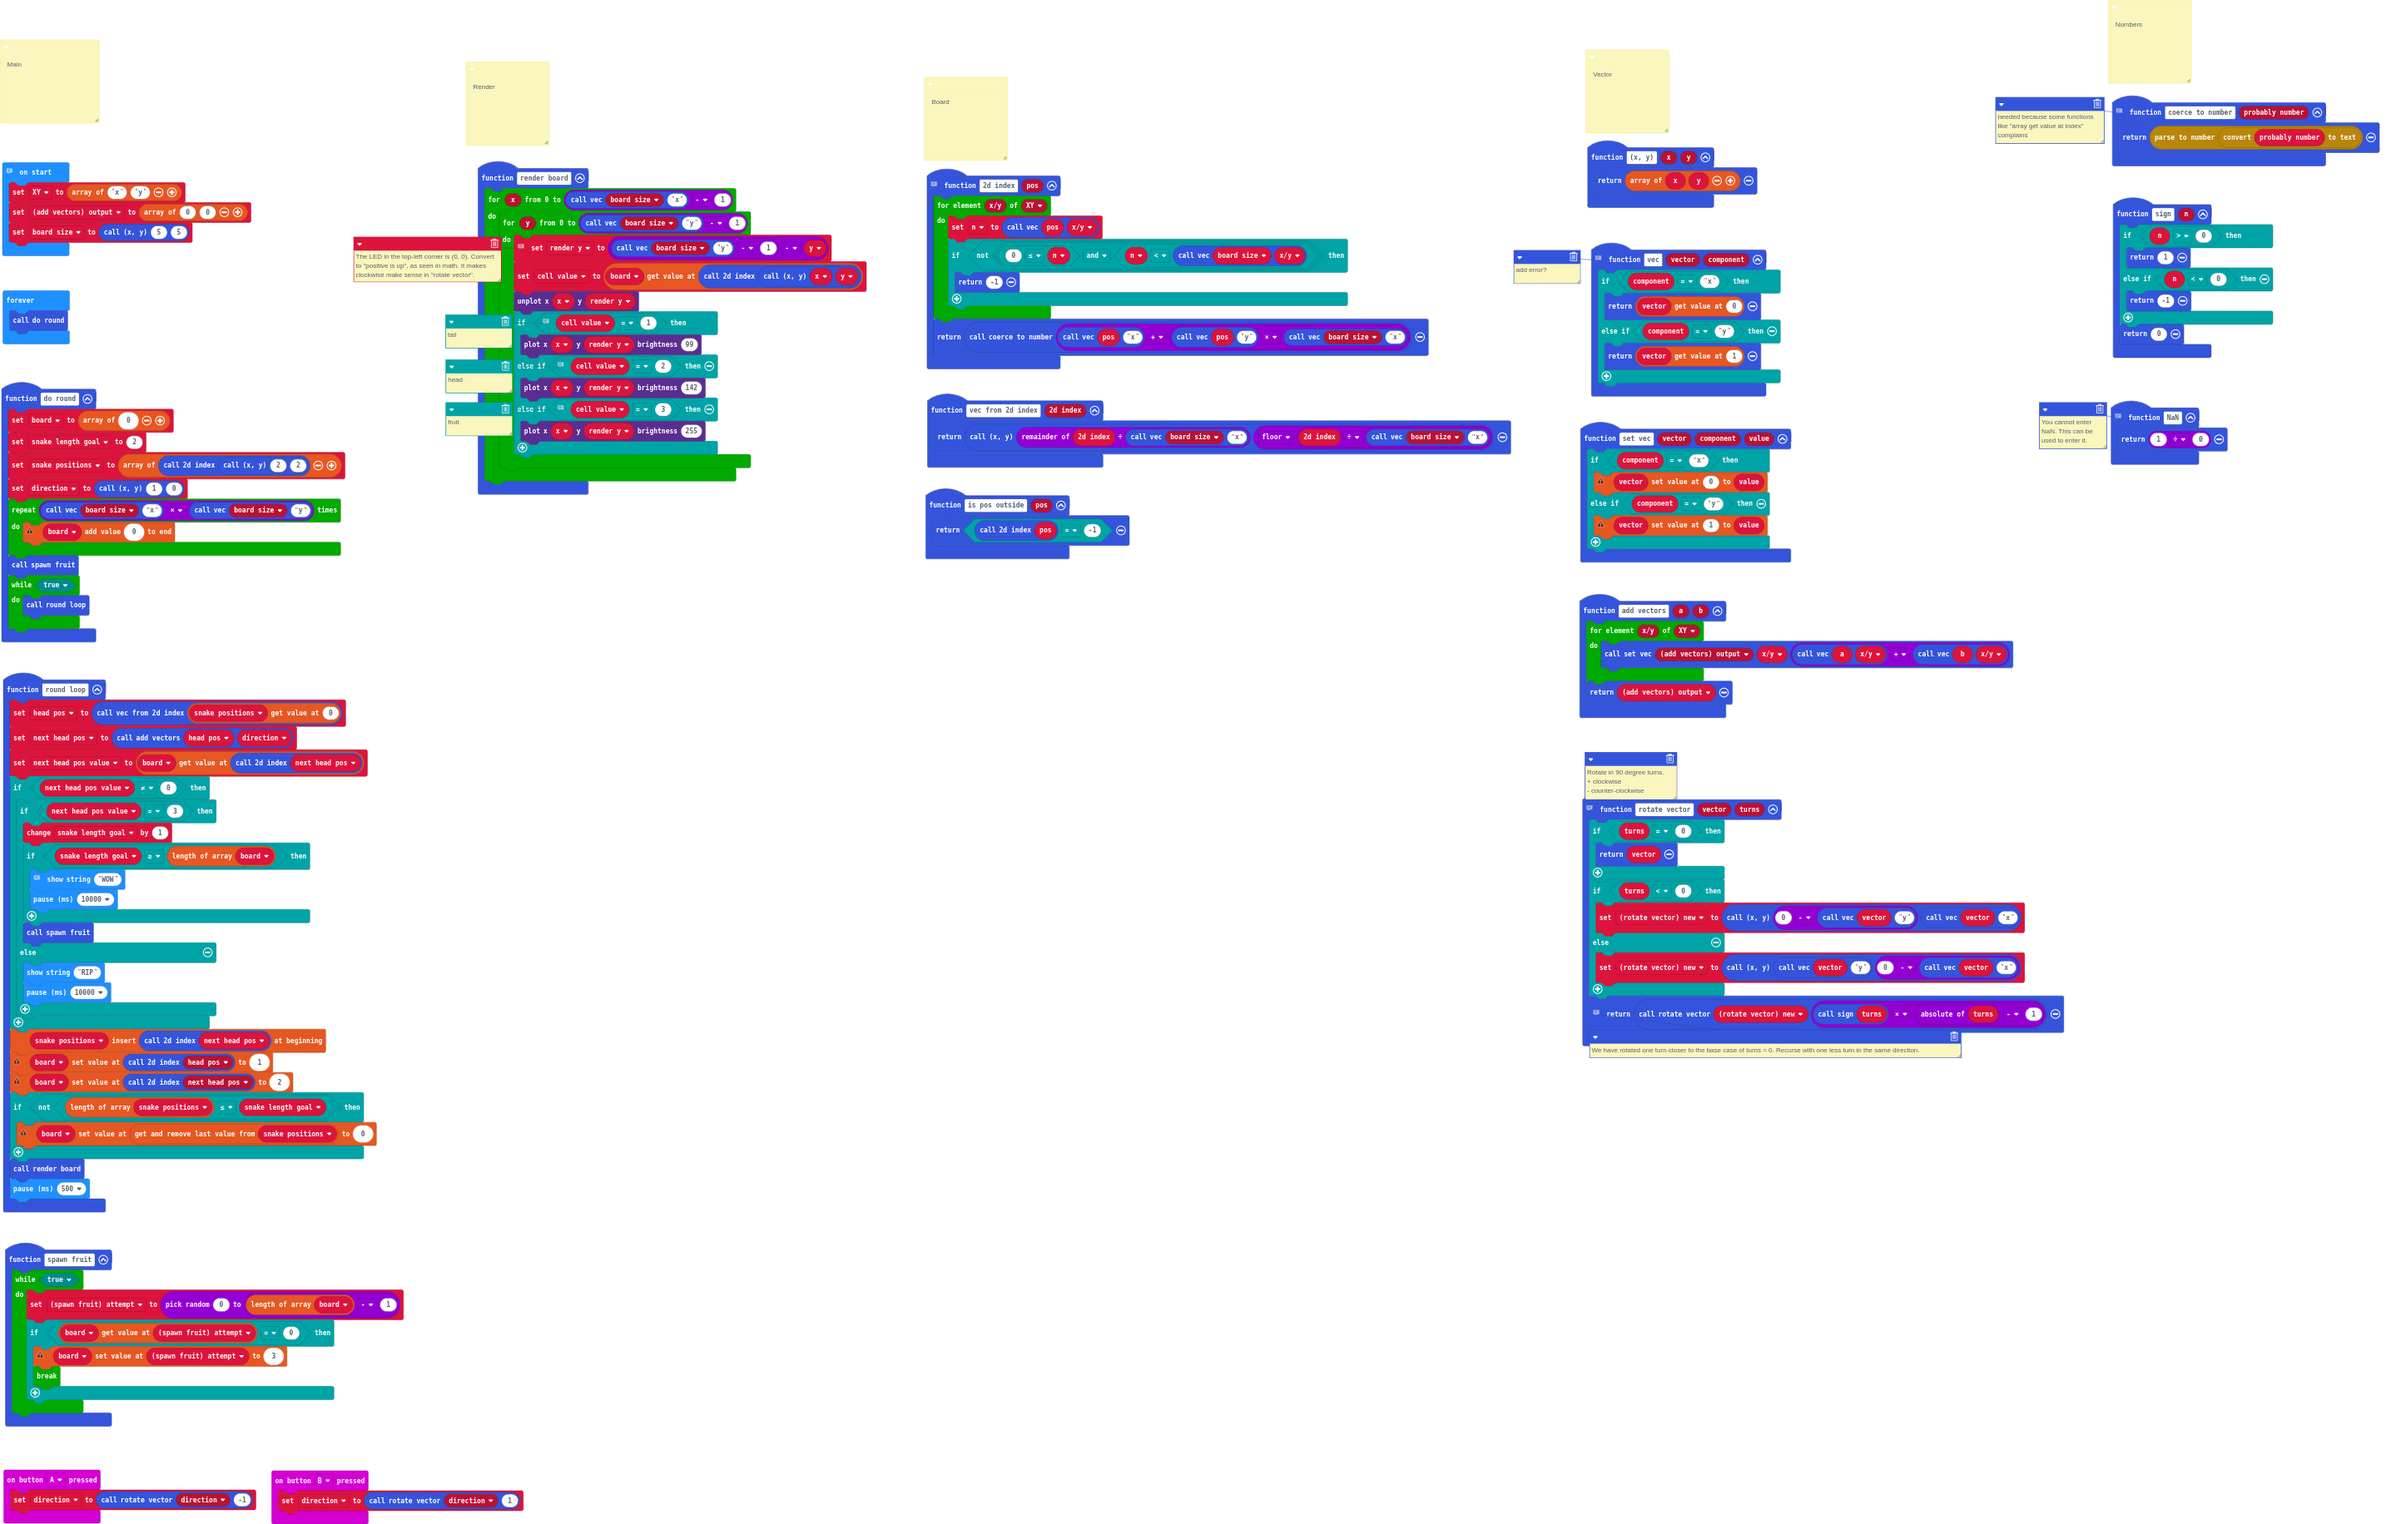
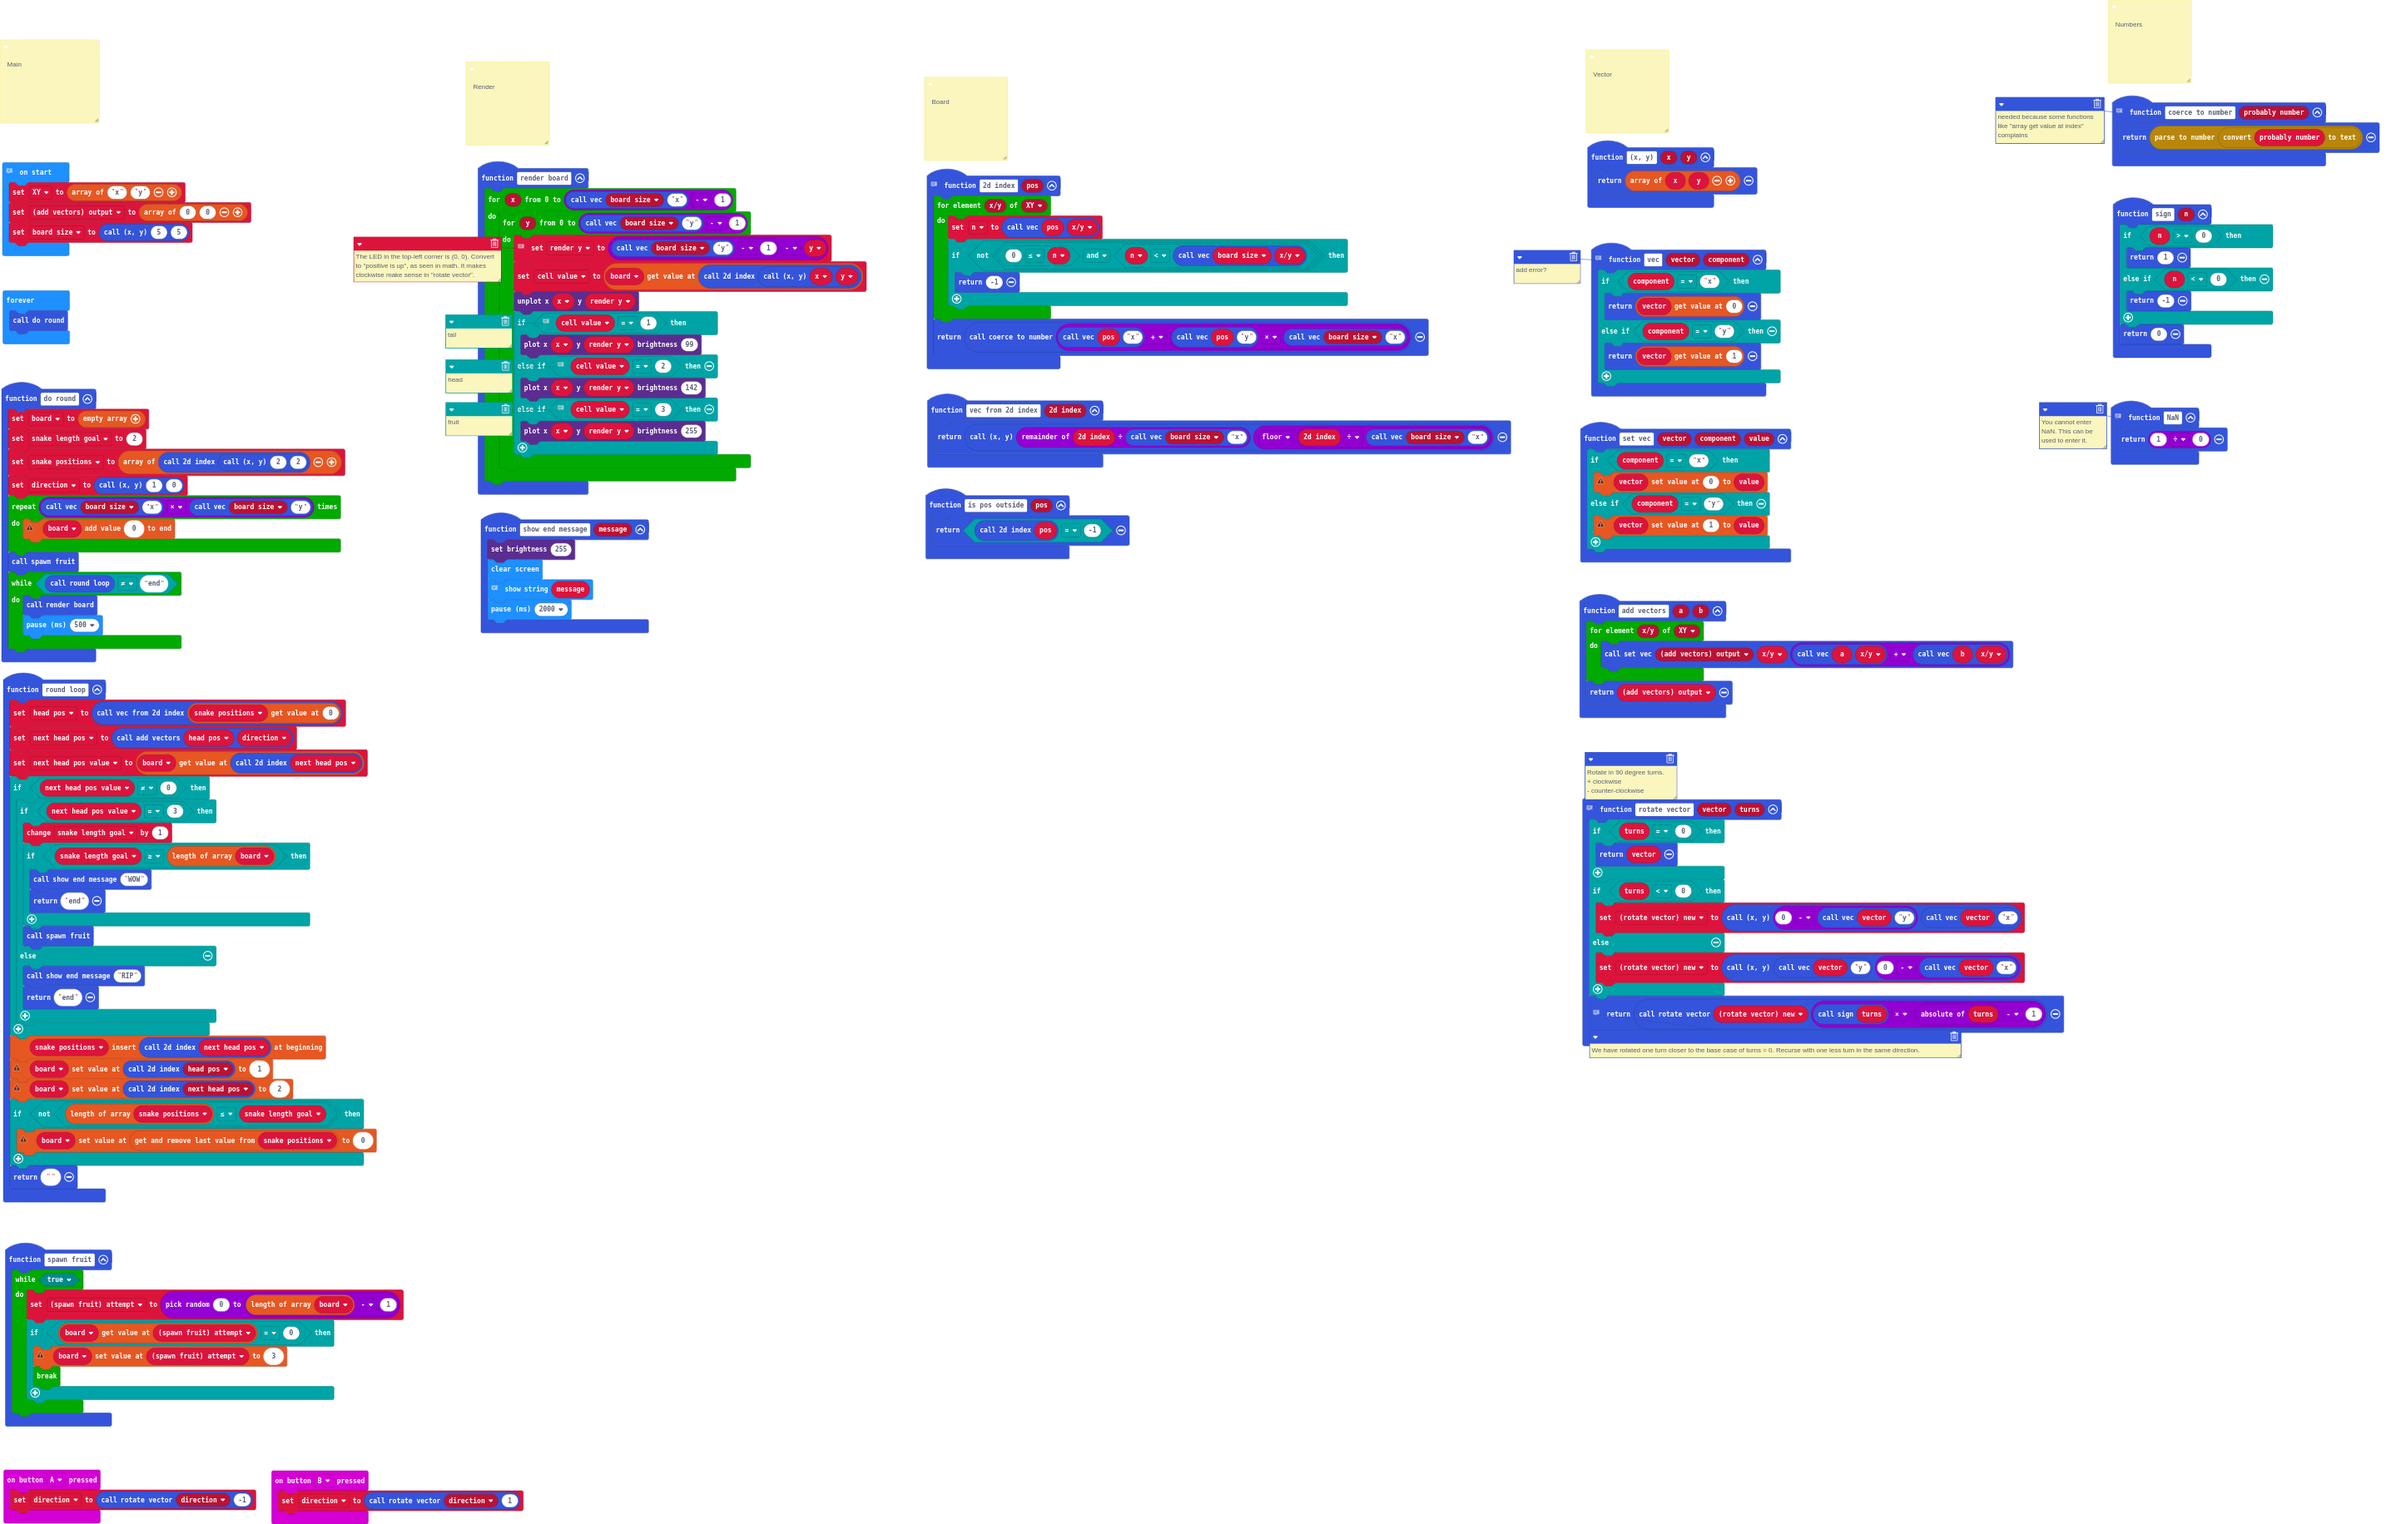
Improve multiple rounds handling

Changed region(s): [[0.0, 0.56, 0.156, 0.809], [0.0, 0.2489, 0.156, 0.4356], [0.1872, 0.3422, 0.2808, 0.4356]]

diff --git a/main.ts b/main.ts
@@ -27,7 +27,7 @@ function NaN2 () {
     return 1 / 0
 }
 function do_round () {
-    board = [0]
+    board = []
     snake_length_goal = 2
     snake_positions = [_2d_index(x_y(2, 2))]
     direction = x_y(1, 0)
@@ -35,8 +35,9 @@ function do_round () {
         board.push(0)
     }
     spawn_fruit()
-    while (true) {
-        round_loop()
+    while (round_loop() != "end") {
+        render_board()
+        basic.pause(500)
     }
 }
 input.onButtonPressed(Button.A, function () {
@@ -71,6 +72,13 @@ function coerce_to_number (probably_number: number) {
 }
 function vec_from_2d_index (_2d_index2: number) {
     return x_y(_2d_index2 % vec(board_size, "x"), Math.floor(_2d_index2 / vec(board_size, "x")))
+}
+function show_end_message (message: string) {
+    led.setBrightness(255)
+    basic.clearScreen()
+    // FIXME: Text has inconsistent brightness
+    basic.showString(message)
+    basic.pause(2000)
 }
 function spawn_fruit () {
     while (true) {
@@ -120,14 +128,13 @@ function round_loop () {
         if (next_head_pos_value == 3) {
             snake_length_goal += 1
             if (snake_length_goal >= board.length) {
-                // FIXME: Text has inconsistent brightness
-                basic.showString("WOW")
-                basic.pause(10000)
+                show_end_message("WOW")
+                return "end"
             }
             spawn_fruit()
         } else {
-            basic.showString("RIP")
-            basic.pause(10000)
+            show_end_message("RIP")
+            return "end"
         }
     }
     snake_positions.unshift(_2d_index(next_head_pos))
@@ -136,8 +143,7 @@ function round_loop () {
     if (!(snake_positions.length <= snake_length_goal)) {
         board[snake_positions.pop()] = 0
     }
-    render_board()
-    basic.pause(500)
+    return ""
 }
 function add_vectors (a: any[], b: any[]) {
     for (let xy of XY) {
